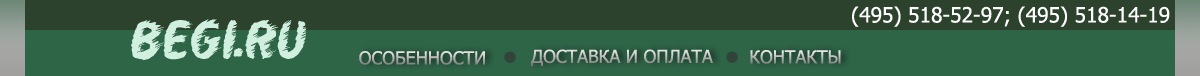
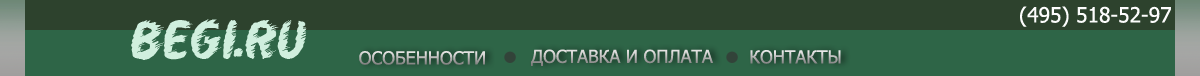
Новые телефоны

Changed region(s): [[0.7092, 0.0789, 0.9867, 0.3421]]

diff --git a/www/styles/index.css b/www/styles/index.css
@@ -88,7 +88,7 @@ div.top {
 
 	div.top a.email {
 		margin-top: 2px;
-		margin-left: 810px;
+		margin-left: 980px;
 		width: 35px;
 		height: 25px;
 		display: block;
